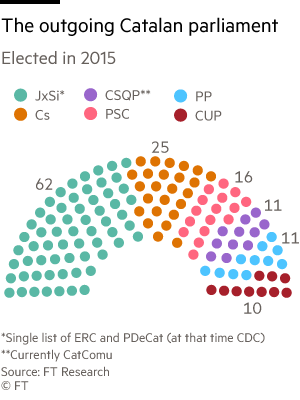
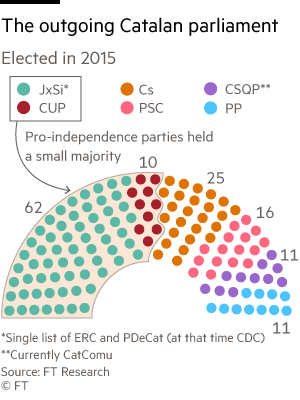
add master image and new hemicycle

Changed region(s): [[0.0, 0.18, 1.0, 0.84], [0.57, 0.18, 0.9, 0.3]]

diff --git a/config/article.js b/config/article.js
@@ -32,7 +32,7 @@ export default () => ({ // eslint-disable-line
     credit: '',
 
     // You can provide a UUID to an image and it was populate everything else
-    uuid: 'c76f24ae-6d6d-11e7-b9c7-15af748b60d0',
+    uuid: 'c0319764-c612-11e7-a1d2-6786f39ef675',
 
     // You can also provide a URL
     // url: 'https://image.webservices.ft.com/v1/images/raw/http%3A%2F%2Fcom.ft.imagepublish.prod.s3.amazonaws.com%2Fc4bf0be4-7c15-11e4-a7b8-00144feabdc0?source=ig&fit=scale-down&width=700',
